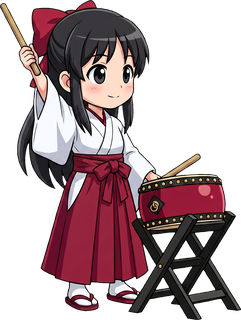
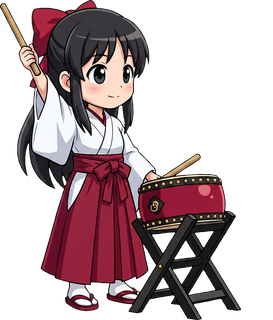
fix: miko sprite 5장 발 위치 정렬 (캐릭터 흔들림 방지)
각 프레임 발 (가장 아래쪽 opaque 행) 의 X 중심 측정 → 최대값에 맞춰 모든 프레임 좌측 패딩.
모든 프레임 273×320 동일 크기, 발 위치 X=196 동일.
인게임 같은 좌표에 drawImage 시 캐릭터 안 흔들림.

diff --git a/scripts/miko_align.py b/scripts/miko_align.py
@@ -1,0 +1,53 @@
+"""
+4 strike/standby PNG 의 캐릭터 위치 정렬.
+각 프레임 발 (가장 아래쪽 opaque 행) 의 X 중심을 캔버스 가운데로 맞춰 패딩.
+모든 프레임 동일 크기 → 인게임 같은 위치에 drawImage 시 캐릭터 안 흔들림.
+"""
+import os
+import numpy as np
+from PIL import Image
+
+DIR = r'D:\nanorhythm-assets\nanorhythm-assets\skins\miko_taiko'
+FILES = ['standby_near_normal.png', 'strike_near_normal.png',
+         'standby_far_normal.png', 'strike_far_normal.png',
+         'idle.png']
+
+# 1단계: 각 프레임 측정
+frames = []
+for f in FILES:
+    p = os.path.join(DIR, f)
+    if not os.path.exists(p): continue
+    arr = np.array(Image.open(p).convert('RGBA'))
+    a = arr[:,:,3]
+    # 가장 아래쪽 opaque 행 찾기
+    rows_with_alpha = np.where((a > 50).any(axis=1))[0]
+    if len(rows_with_alpha) == 0:
+        print(f'SKIP {f}: no opaque'); continue
+    last_row_idx = rows_with_alpha[-1]
+    last_row = a[last_row_idx]
+    cols_in_last = np.where(last_row > 50)[0]
+    feet_x = (cols_in_last.min() + cols_in_last.max()) // 2 if len(cols_in_last) else arr.shape[1] // 2
+    frames.append((f, arr, feet_x))
+    print(f'{f}: size={arr.shape[1]}x{arr.shape[0]}, feet_x={feet_x}')
+
+# 2단계: 공통 캔버스 크기 결정
+# 좌측 폭 = max(feet_x), 우측 폭 = max(width - feet_x). 합이 캔버스 width.
+max_left = max(fx for _, _, fx in frames)
+max_right = max(arr.shape[1] - fx for _, arr, fx in frames)
+new_w = max_left + max_right
+new_h = max(arr.shape[0] for _, arr, _ in frames)
+print(f'\n공통 캔버스: {new_w}x{new_h}, feet_x_target={max_left}')
+
+# 3단계: 각 프레임 발 X 를 max_left 위치로 옮겨 패딩
+for f, arr, feet_x in frames:
+    h, w = arr.shape[:2]
+    new_arr = np.zeros((new_h, new_w, 4), dtype=np.uint8)
+    pad_left = max_left - feet_x  # left 패딩 크기
+    pad_top = new_h - h  # 발이 바닥에 닿게 (위에서 패딩)
+    new_arr[pad_top:pad_top+h, pad_left:pad_left+w] = arr
+    p = os.path.join(DIR, f)
+    Image.fromarray(new_arr, 'RGBA').save(p, optimize=True, compress_level=9)
+    sz = os.path.getsize(p) / 1024
+    print(f'{f}: padded → {new_w}x{new_h}, {sz:.0f} KB')
+
+print('\nDone. 모든 프레임 같은 사이즈, 발 위치 동일.')
